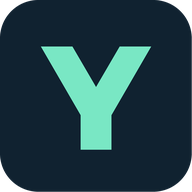
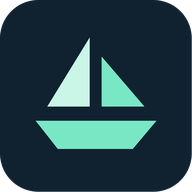
chore(desktop): name the Windows fork CodeSkiff

Changed region(s): [[0.1875, 0.1875, 0.8125, 0.7812]]

diff --git a/apps/desktop/src/app/DesktopEnvironment.test.ts b/apps/desktop/src/app/DesktopEnvironment.test.ts
@@ -65,11 +65,11 @@ describe("DesktopEnvironment", () => {
       const packagedWindows = { platform: "win32", isPackaged: true } as const;
       const upstream = yield* makeEnvironment(packagedWindows);
       const fork = yield* makeEnvironment(
-        { ...packagedWindows, appVersion: "0.1.12-youhanhan.1" },
+        { ...packagedWindows, appVersion: "0.1.12-codeskiff.1" },
         { T3CODE_DESKTOP_APP_USER_MODEL_ID: "com.t3tools.t3code" },
       );
 
-      assert.equal(fork.displayName, "YouHanHan Code");
+      assert.equal(fork.displayName, "码舟");
       assert.equal(fork.appUserModelId, "io.github.youhanhan.code");
       assert.equal(fork.appDataDirectory, upstream.appDataDirectory);
       assert.equal(fork.baseDir, upstream.baseDir);

diff --git a/packages/shared/src/youHanHanBrand.ts b/packages/shared/src/youHanHanBrand.ts
@@ -1,10 +1,10 @@
-export const YOUHANHAN_CODE_NAME = "YouHanHan Code";
+export const YOUHANHAN_CODE_NAME = "码舟";
 export const YOUHANHAN_CODE_APP_ID = "io.github.youhanhan.code";
 export const YOUHANHAN_CODE_REPOSITORY_URL = "https://github.com/YouHanHan/t3code";
 export const YOUHANHAN_CODE_PUBLISHER = "YouHanHan";
-export const YOUHANHAN_CODE_ARTIFACT_PREFIX = "YouHanHan-Code";
+export const YOUHANHAN_CODE_ARTIFACT_PREFIX = "CodeSkiff";
 export const YOUHANHAN_CODE_DESCRIPTION = "An unofficial fork of T3 Code for local coding agents.";
 
 export function isYouHanHanCodeVersion(version: string): boolean {
-  return /^\d+\.\d+\.\d+-youhanhan\.\d+$/.test(version);
+  return /^\d+\.\d+\.\d+-codeskiff\.\d+$/.test(version);
 }

diff --git a/scripts/build-desktop-artifact.ts b/scripts/build-desktop-artifact.ts
@@ -28,7 +28,6 @@ import {
   YOUHANHAN_CODE_APP_ID,
   YOUHANHAN_CODE_ARTIFACT_PREFIX,
   YOUHANHAN_CODE_DESCRIPTION,
-  YOUHANHAN_CODE_NAME,
   YOUHANHAN_CODE_PUBLISHER,
   YOUHANHAN_CODE_REPOSITORY_URL,
 } from "../packages/shared/src/youHanHanBrand.ts";
@@ -2816,7 +2815,7 @@ export function resolvePackageManagerUserAgent(packageManager: string): string {
 }
 
 export function resolveDesktopProductName(version: string): string {
-  if (isYouHanHanCodeVersion(version)) return YOUHANHAN_CODE_NAME;
+  if (isYouHanHanCodeVersion(version)) return YOUHANHAN_CODE_ARTIFACT_PREFIX;
   return resolveDesktopUpdateChannel(version) === "nightly"
     ? "T3 Code (Nightly)"
     : (desktopPackageJson.productName ?? "T3 Code");

diff --git a/apps/desktop/src/app/DesktopCliCommand.test.ts b/apps/desktop/src/app/DesktopCliCommand.test.ts
@@ -458,7 +458,7 @@ it.layer(NodeServices.layer)("DesktopCliCommand", (it) => {
       const path = yield* Path.Path;
       const home = yield* fs.makeTempDirectoryScoped();
       const baseDir = path.join(home, ".t3");
-      const input = { home, baseDir, platform: "win32", appVersion: "0.1.12-youhanhan.1" } as const;
+      const input = { home, baseDir, platform: "win32", appVersion: "0.1.12-codeskiff.1" } as const;
       const environment = environmentFor(path, input);
       const launcher = DesktopCliShim.launcherPath(environment);
       const existing = `@rem ${DesktopCliShim.MARKER}\r\n`;

diff --git a/apps/desktop/src/app/DesktopAppIdentity.test.ts b/apps/desktop/src/app/DesktopAppIdentity.test.ts
@@ -189,9 +189,9 @@ describe("DesktopAppIdentity", () => {
       environment: { env: { VITE_DEV_SERVER_URL: "http://localhost:5173" } },
     },
     {
-      name: "YouHanHan Code",
-      displayName: "YouHanHan Code",
-      environment: { appVersion: "0.1.12-youhanhan.1", platform: "win32" as const },
+      name: "码舟",
+      displayName: "码舟",
+      environment: { appVersion: "0.1.12-codeskiff.1", platform: "win32" as const },
     },
   ])(
     "uses a valid native User-Agent product name for $name",

diff --git a/apps/desktop/src/updates/DesktopUpdates.test.ts b/apps/desktop/src/updates/DesktopUpdates.test.ts
@@ -140,7 +140,7 @@ describe("DesktopUpdates", () => {
   });
 
   it.effect("keeps the fork disabled even when an updater feed is configured", () => {
-    const harness = makeHarness({ platform: "win32", appVersion: "0.1.12-youhanhan.1" });
+    const harness = makeHarness({ platform: "win32", appVersion: "0.1.12-codeskiff.1" });
 
     return Effect.scoped(
       Effect.gen(function* () {
